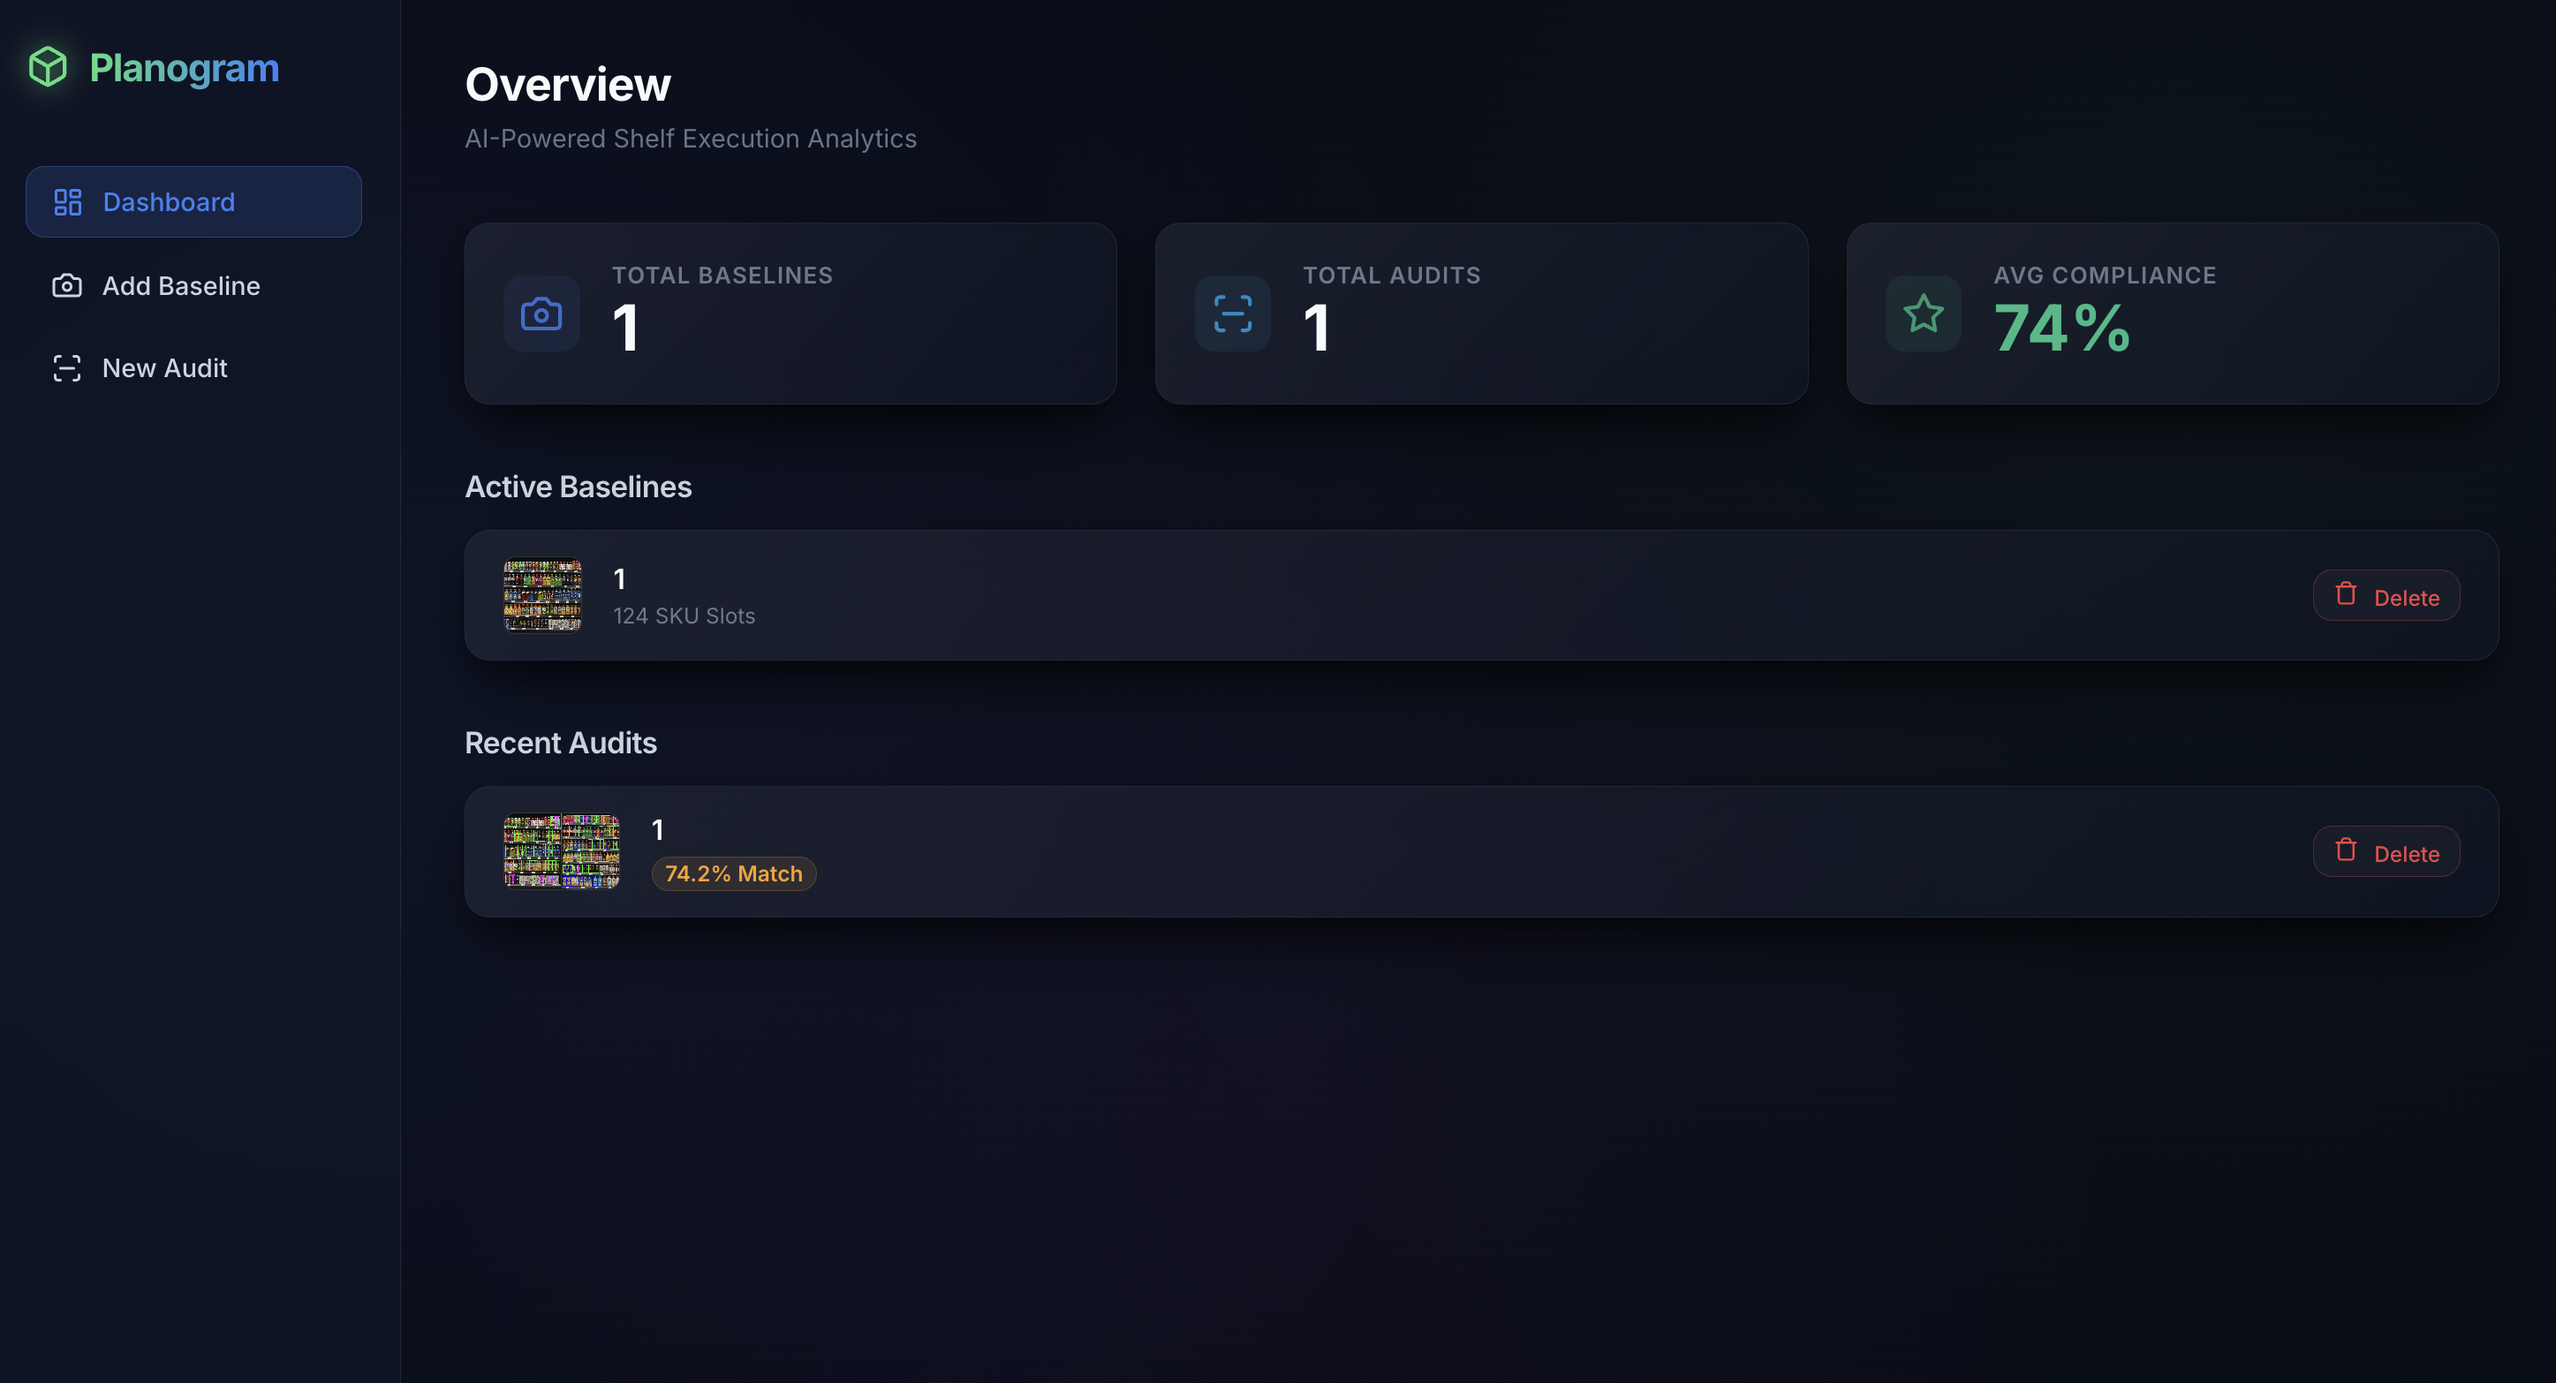
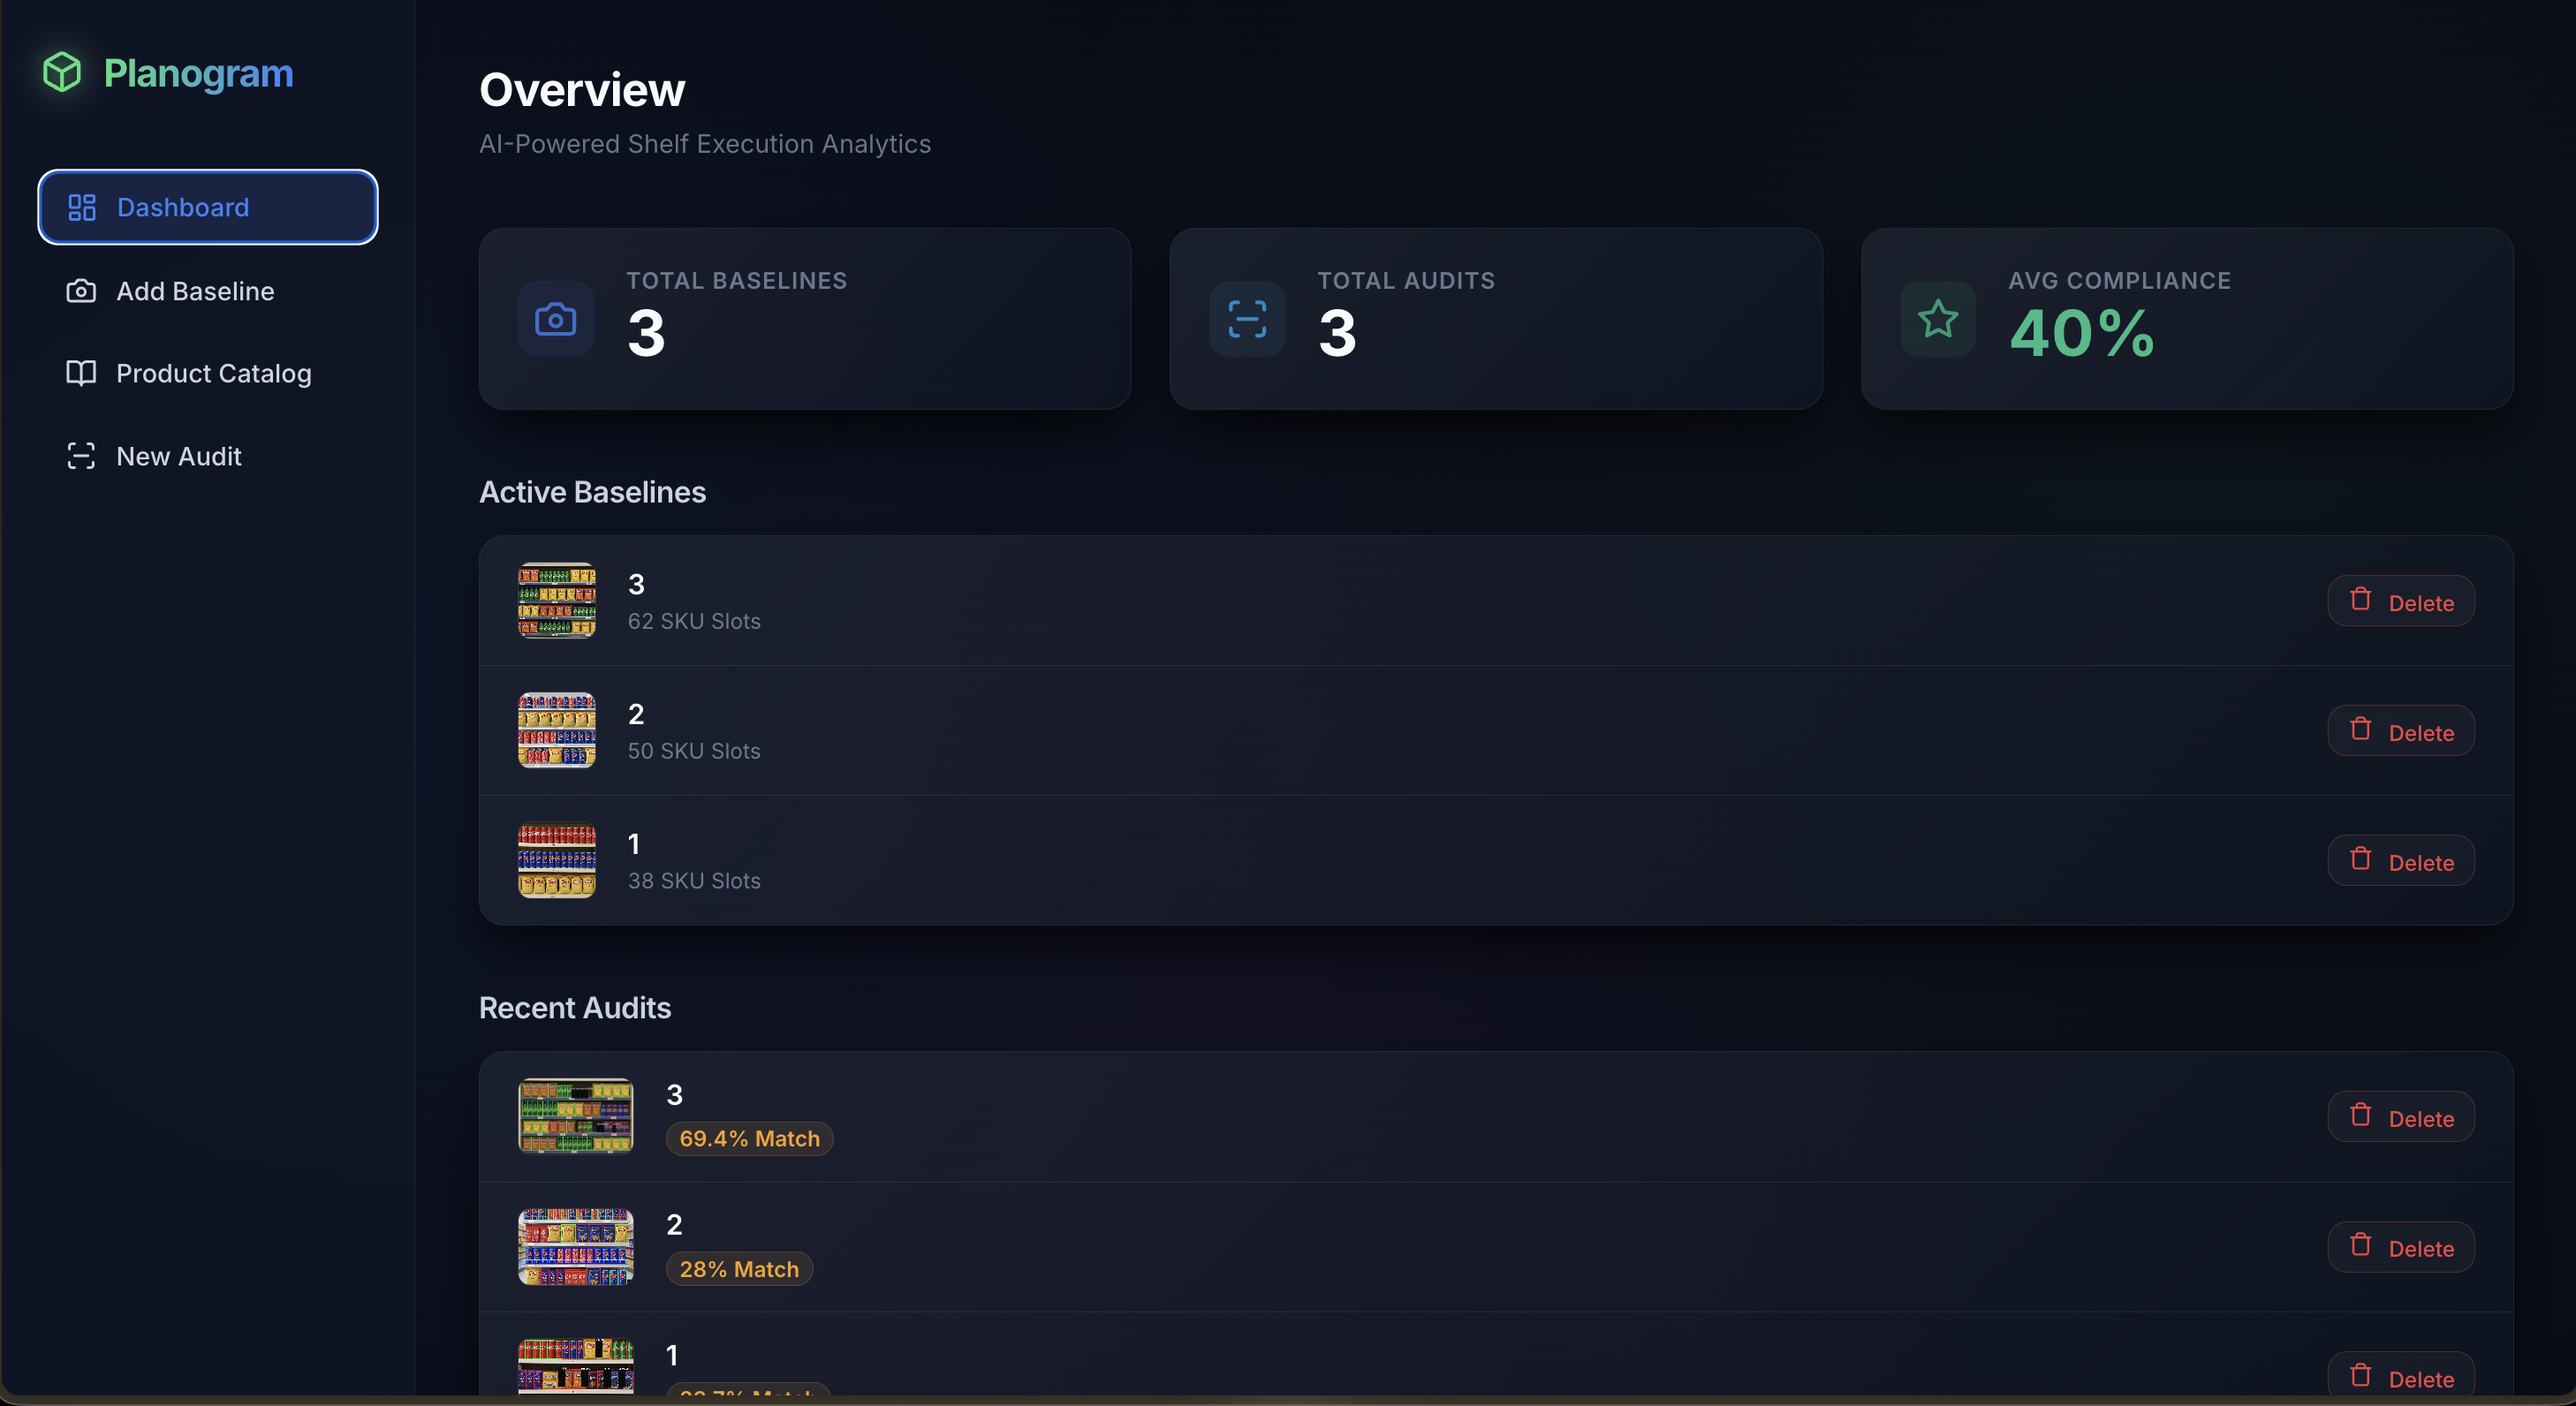
docs: push latest dashboard image

diff --git a/README.md b/README.md
@@ -3,7 +3,7 @@
 Planogram is an intelligent, AI-powered computer vision platform designed to automate retail shelf compliance and auditing. By combining state-of-the-art vision models with a highly responsive dashboard, Planogram compares store shelves in real-time against reference baselines to instantly identify missing, extra, or incorrectly placed products.
 
 <div align="center">
-  <img src="docs/images/dashboard.png?v=2" alt="Planogram Dashboard" width="800"/>
+  <img src="docs/images/dashboard.png?v=3" alt="Planogram Dashboard" width="800"/>
 </div>
 
 ## Key Features
